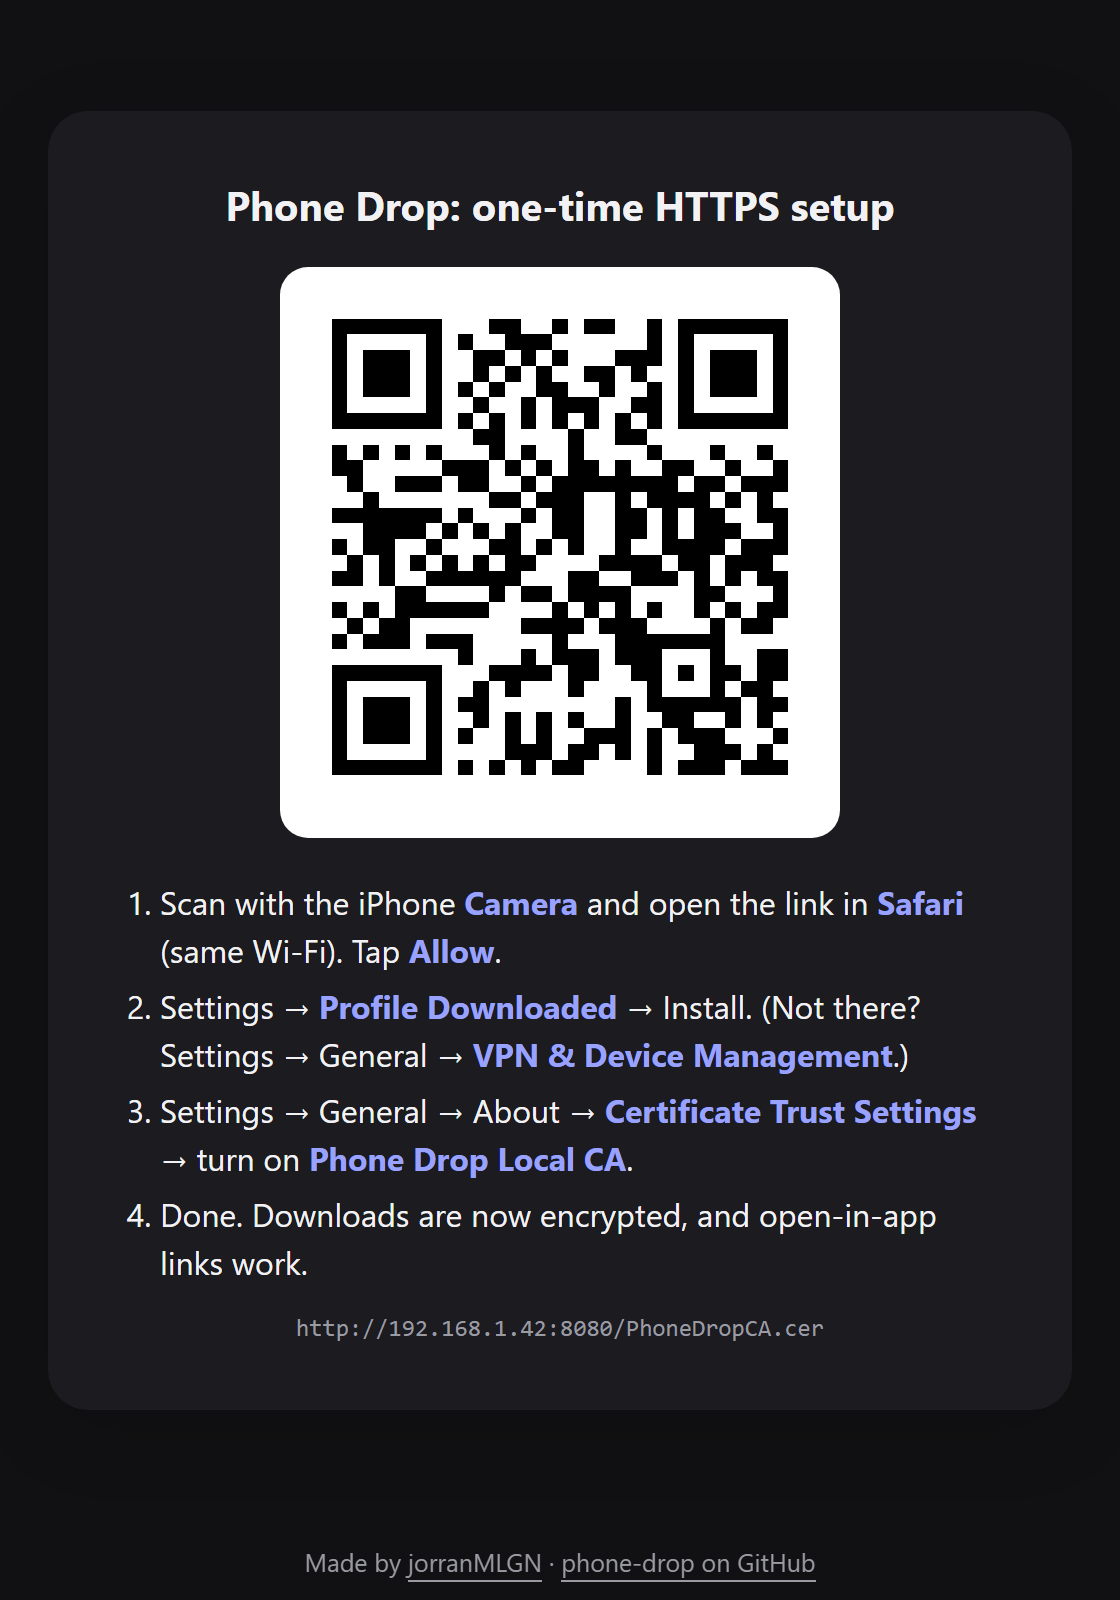
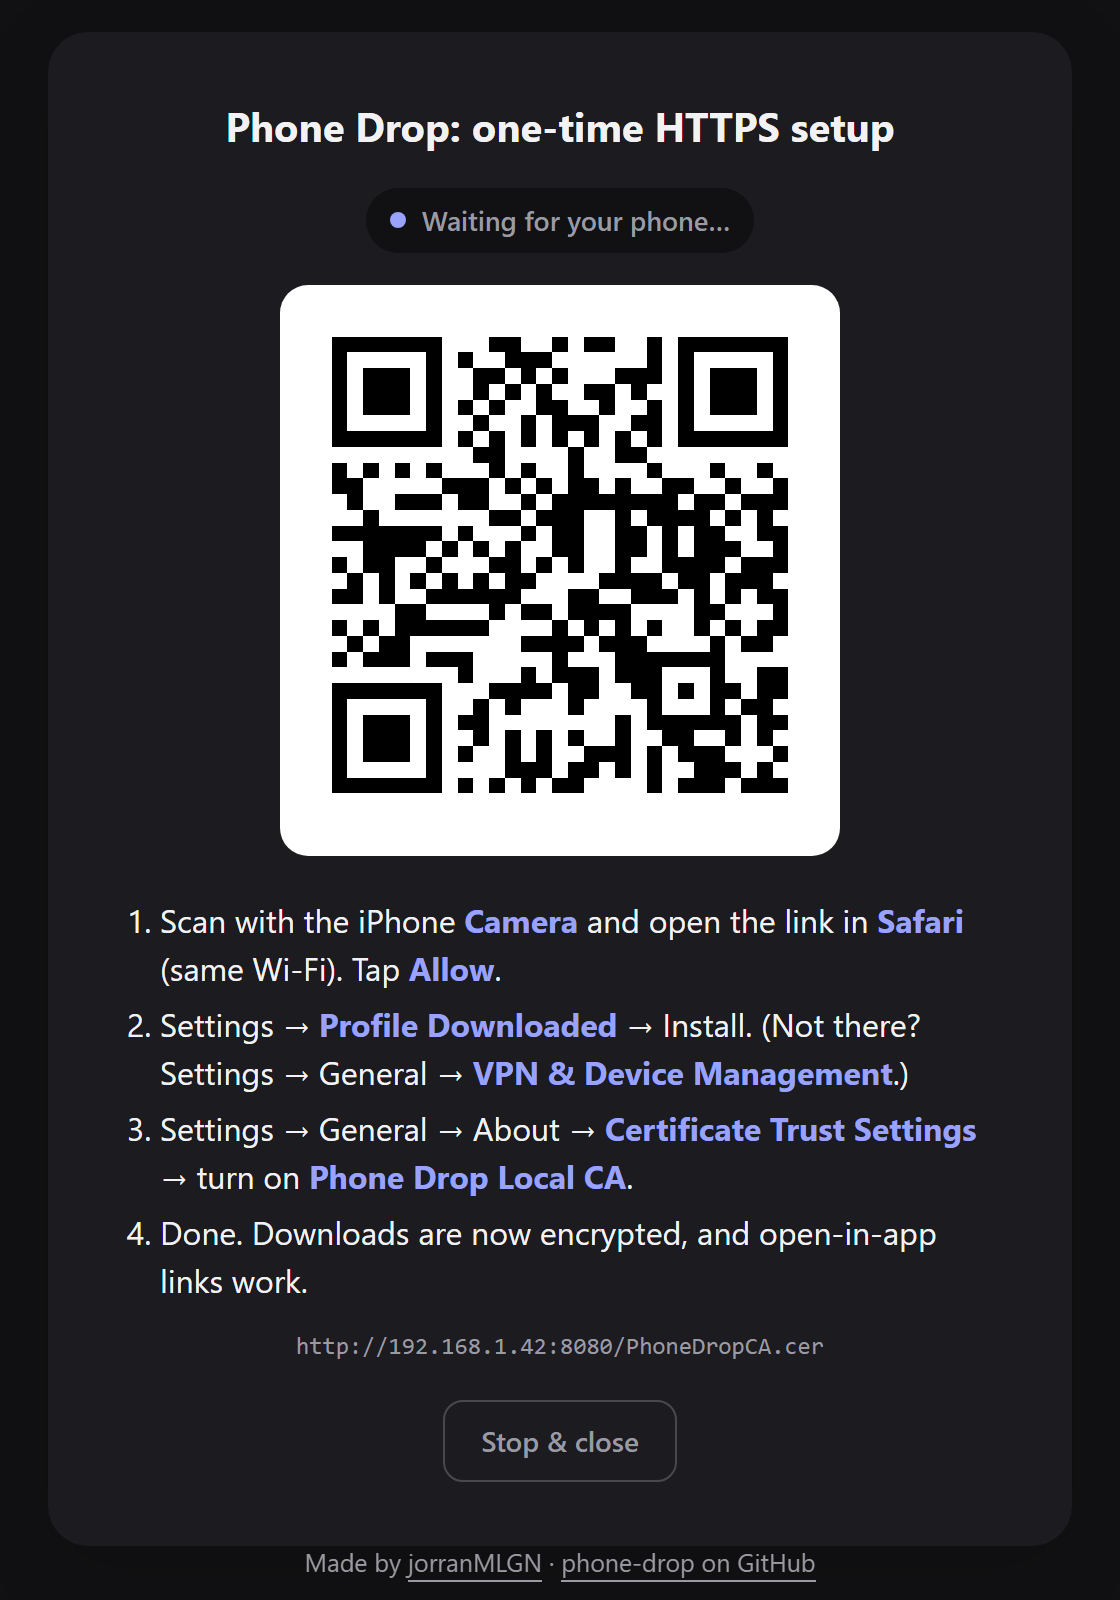
QR page: live status and a Stop & close button; add npm test
The QR page is now served from a tiny server on 127.0.0.1 (random port
and token, never on the LAN) instead of a temp file. It shows live
status (waiting → sending 45% → done) and has a "Stop & close" button
that ends the transfer (exit code 3) and closes the tab where the
browser allows it, otherwise it says the tab can be closed.

test/e2e.mjs runs 35 end-to-end checks against the real CLI
(control page, passcode, Feather links, uploads, traversal, overwrite);
run with `npm test`. Not shipped in the npm package.

Changed region(s): [[0.0938, 0.0625, 0.875, 0.8438], [0.4375, 0.875, 0.5625, 0.9062]]

diff --git a/README.md b/README.md
@@ -158,7 +158,7 @@ Claude opens a page with a QR code in your browser (see the screenshot above). T
    - **iPhone:** Files → Downloads
    - **Android:** the Downloads app (or Files → Downloads)
 
-The server on your computer stops as soon as the download completes, and Claude tells you it arrived.
+The server on your computer stops as soon as the download completes, and Claude tells you it arrived. The QR page on your computer shows the **live status** (waiting → sending 45% → ✓ done). Its **Stop & close** button ends the transfer early.
 
 > **The first time on Windows**, a firewall prompt asks whether *Node.js* may accept connections. Allow it on **Private networks**.
 
@@ -448,7 +448,9 @@ phone-drop --help | --version
 | `--no-browser` | off | don't open the QR page (its path is still printed) |
 | `--no-terminal-qr` | off | don't draw the QR code in the terminal (only drawn when run in a real terminal) |
 
-Exit codes: `0` delivered/received, `1` error, `2` timed out (nothing transferred).
+Exit codes: `0` delivered/received, `1` error, `2` timed out (nothing transferred), `3` stopped with the QR page's **Stop & close** button.
+
+The QR page is served from `http://127.0.0.1:<random port>/<random token>/`, which is reachable only from your own computer. That lets it show live status and stop the transfer. Browsers only let a page close its own tab if a script opened it, so if the tab stays open after **Stop & close**, the page says it's safe to close.
 
 ```text
 .claude-plugin/plugin.json        manifest + user options (userConfig)
@@ -459,7 +461,8 @@ scripts/phone-drop.mjs            server, certificates, config
 scripts/qr-page.mjs               QR page template (shown on the computer)
 scripts/upload-page.mjs           upload page (shown on the phone)
 scripts/gate-page.mjs             passcode lock screen (shown on the phone)
-scripts/brand.mjs                 favicon and credits
+scripts/brand.mjs                 favicon, credits and shared animations
+test/e2e.mjs                      end-to-end tests against the real CLI (npm test)
 docs/render-screenshots.mjs       regenerates docs/images (npm run screenshots)
 docs/render-demo.mjs              regenerates docs/images/demo.gif (npm run demo, needs ffmpeg)
 ```

diff --git a/skills/send/SKILL.md b/skills/send/SKILL.md
@@ -38,6 +38,10 @@ The user can change these in `/plugin configure phone-drop@phone-drop`: transpor
 
 If the user asks for a passcode (or one is configured), the QR opens a lock screen on the phone first. Pass `--passcode` for a random 6-digit code, or `--passcode <code>` for a specific one. `--no-passcode` overrides the config for one transfer. The script prints `Passcode: …`. **Always tell the user that code**, because it is deliberately not shown on the QR page. This also works with apps: after unlocking, the page hands off to the app.
 
+## Notes
+
+- The QR page (printed as `QR page: http://127.0.0.1:…`) shows live status and has a **Stop & close** button. If the user stops it there, the script exits with code 3. Tell them it was stopped, not that it failed.
+
 ## Options
 
 `--open <app|template>` (an app name, or a raw template containing `{url}`), `--download`, `--passcode [code]`, `--no-passcode`, `--http` / `--https`, `--ip <addr>`, `--port <n>`, `--timeout <minutes>`, `--no-browser`.

diff --git a/skills/receive/SKILL.md b/skills/receive/SKILL.md
@@ -23,6 +23,7 @@ If the user asks for a passcode (or one is configured), the phone has to enter i
 
 ## Notes
 
+- The QR page (printed as `QR page: http://127.0.0.1:…`) shows live status and has a **Stop & close** button. If the user stops it there, the script exits with code 3. Tell them it was stopped, not that it failed.
 - Files are never overwritten: `photo.jpg` becomes `photo (1).jpg` if a file with that name already exists. Incomplete uploads are discarded.
 - `--max-mb <n>` limits the size per file. `--http` / `--https` force a transport.
 - iPhone photos can arrive as `.HEIC` or `.JPG`, depending on how they were picked. If the user needs JPEG and the computer can't open HEIC, offer to convert them.
